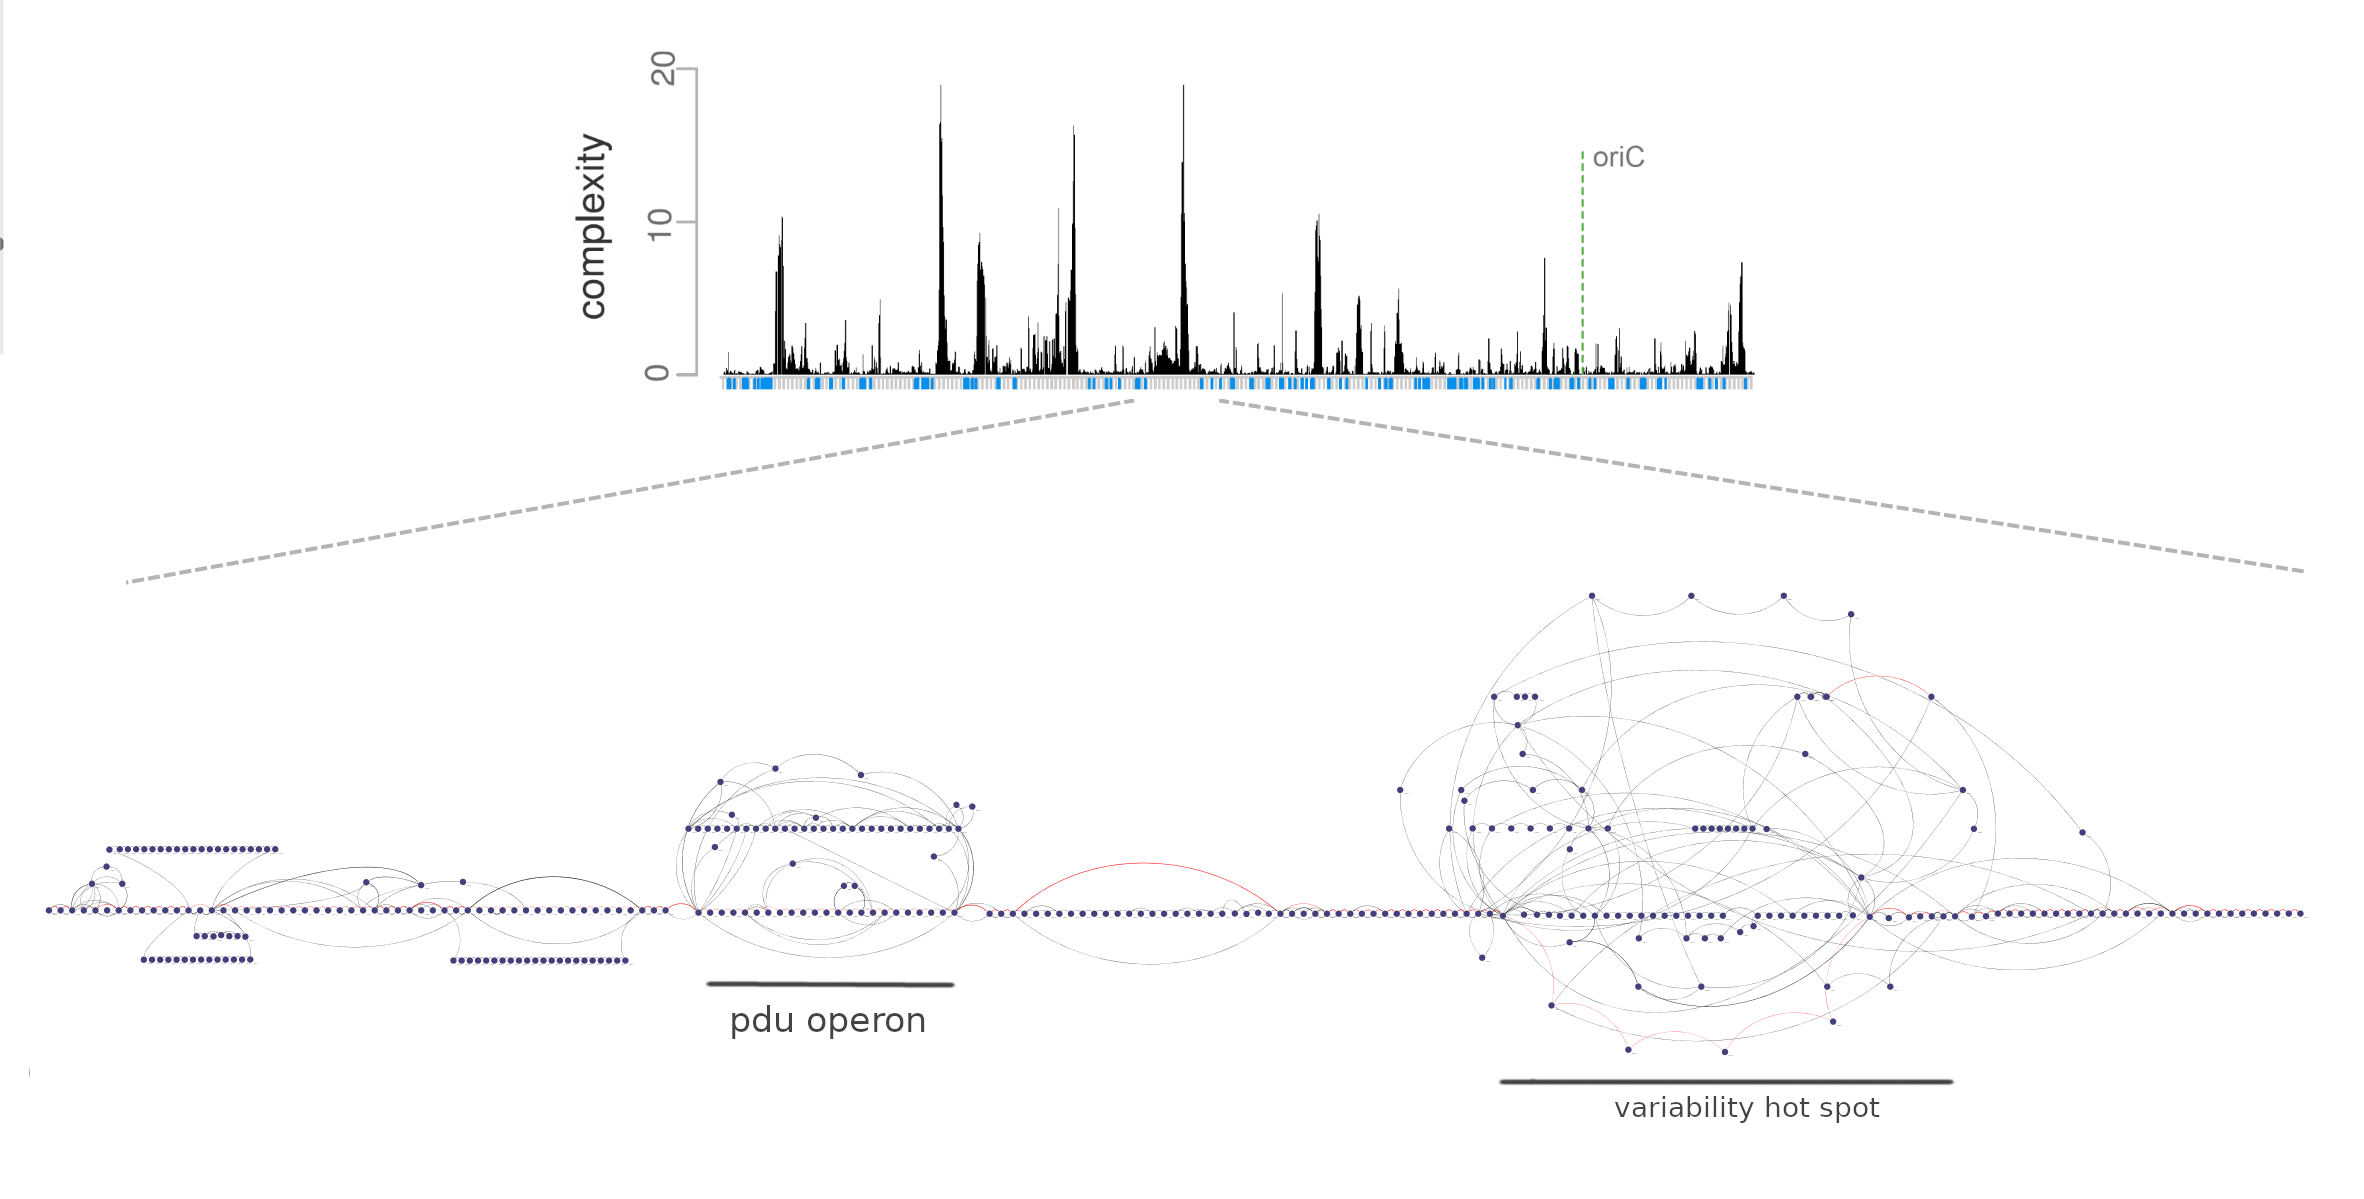
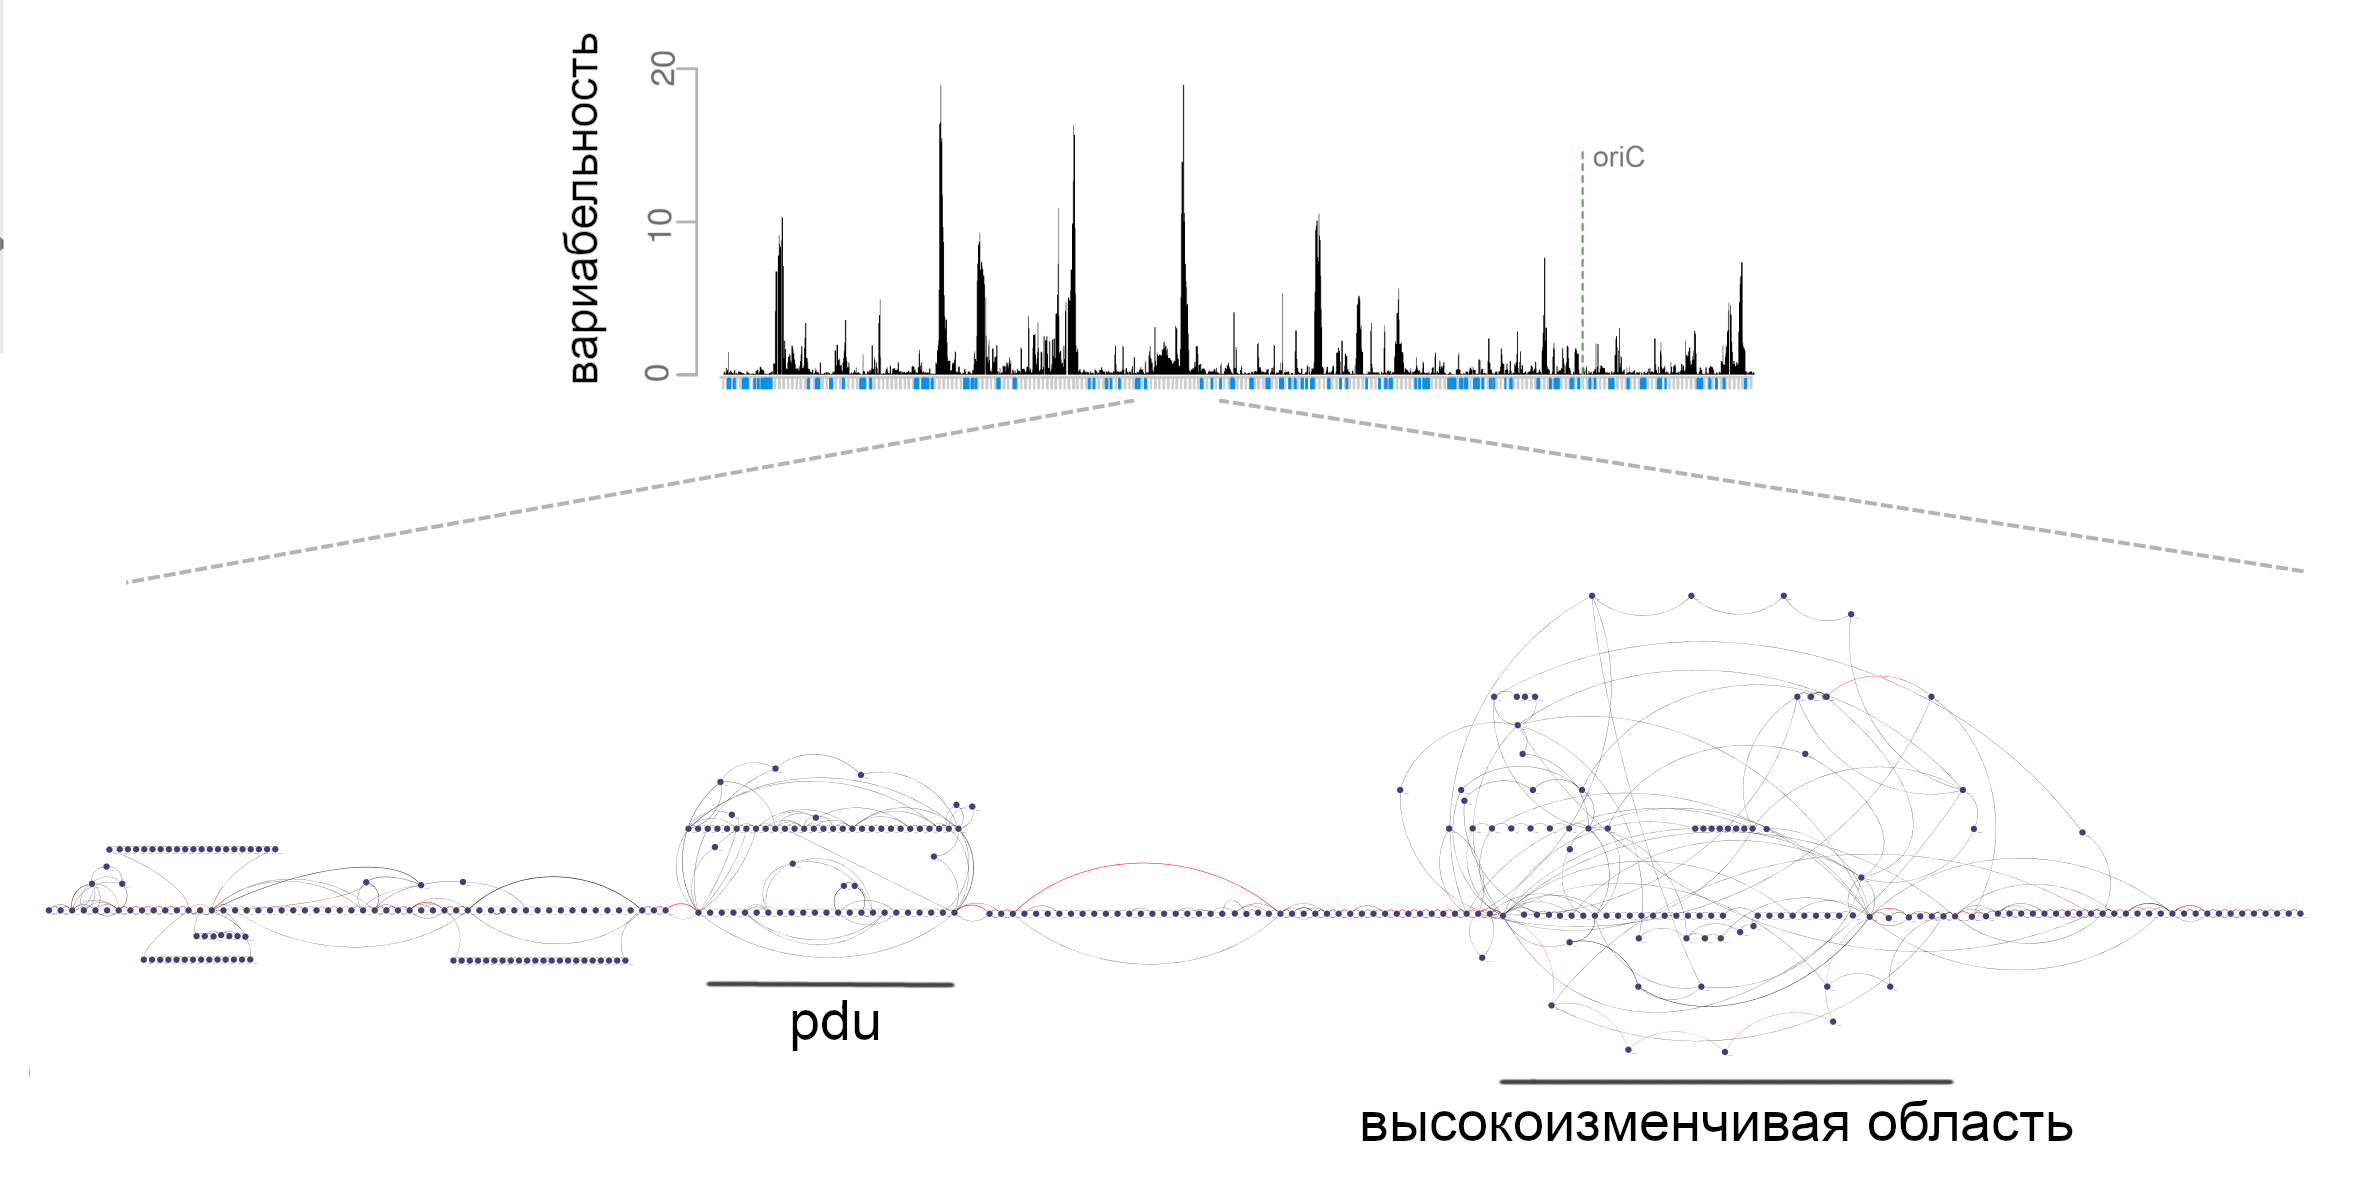
add

Changed region(s): [[0.5558, 0.8949, 0.8955, 0.9566], [0.2162, 0.0926, 0.2779, 0.3086], [0.3088, 0.8332, 0.4014, 0.8641]]

diff --git a/Dissertation/results_subgraphs.tex b/Dissertation/results_subgraphs.tex
@@ -56,7 +56,9 @@
 
 На рисунках~\ref{img:sub_hem} и ~\ref{img:sub_pdu} показаны графы, построенные в окрестностях оперонов захвата гемина (hemin uptake, hmu) и утилизации пропандиола (propanediol utilization operon, pdu), соответственно. В качестве референсного генома нами был взят геном \textit{Escherichia coli LF82}, в анализ были включены 327 финишированных геномов доступных в базе RefSeq. Для построения данных графов мы использовали следующие параметры: \textit{tails} = 1, \textit{max\_depth} = 30, \textit{minimal\_edge\_weight} = 5. 
 
-Рассмотрим для начала более простой случай оперона захвата гемина. Как видно из графа, представленного на рисунке~\ref{img:sub_hem}, данный оперон расположен в консервативном генном контексте. Дуговое ребро обходящее оперон сверху говорит о том, что в некотором наборе геномов данный оперон отсутствует и других вариантов генов у них в этом локусе не наблюдается. 
+Рассмотрим для начала более простой случай оперона захвата гемина. Данный оперона состоит из следующих генов: транспортный белок (Hemin transport protein HemS), АТФ-связывающий белок захвата гемина (Hemin import ATP-binding protein HmuV), гемин-связывающий периплазматический белок (hemin-binding periplasmic protein HmuT), кислороднезависимый копропорфириноген-III оксидазоподобный белок (oxygen-independent coproporphyrinogen-III oxidase-like protein) и два гипотетических белка (здесь и далее мы приводим аннотации последовательностей, полученные при помощи утилиты prokka \cite{seemann2014prokka}).
+
+Как видно из графа, представленного на рисунке~\ref{img:sub_hem}, данный оперон расположен в консервативном генном контексте: слева расположен регулятор транскрипции HTH-типа, справа --- гипотетический белок. Дуговое ребро обходящее оперон сверху говорит о том, что в некотором наборе геномов данный оперон отсутствует и других вариантов генов у них в этом локусе не наблюдается. 
 
 \begin{figure}[!ht] 
   \center
@@ -65,7 +67,7 @@
   \label{img:sub_hem} 
 \end{figure}
 
-В случае оперона утилизации пропандиола, аналогично, наблюдается консервативность контекста его рассположения у тех штаммов, в которых он представлен. Ребро обходящее оперон (дуга ниже оперона) говорит о том, что в ряде штаммов в данном контексте нет иных вариантов генов. Наблюдается некоторая вариабельность внутри оперона, соответствующая нескольким вариантам данного оперона \cite{rakitina2017genome}. Помимо pdu оперона, в том же контексте, у ряда штаммов наблюдается альтернативный набор генов (узлы и ребра, расположенные выше оперона), в который входят гены транспорта железа (FepC, FcuA, HmuU), гены мобильных элементов (retroviral integrase core domain, transposase DDE Tnp ISL3) и множество гипотетических генов с неизвестной функцией. Примечательна вариабельность этого альтернативного набора генов. Вероятно, данный участок генома часто служит местом рекомбинационных событий, приводящих к изменению набора генов, причем эти изменения не имеют строгого начала и конца (т.е. не сайт специфичны), но часто накладываются друг на друга. 
+В оперон утилизации пропандиола (propanediol utilization operon, pdu) входят гены, кодирующие: белок утилизации пропандиола PduU, малая субъединица пропандиол-дегидратазы, белок утилизации пропандиола PduB, белок с механизмом концентрации углекислого газа CcmK, субъединица альфа-фактора реактивации диолдегидратазы, белок утилизации пропандиола PduV, альдегид-алкоголь дегидрогеназа, C-диамид аденозил трансфераза ириновой кислоты Cob I, большая субъединица  пропандиол дегидратазы, фосфат-пропаноил трансфераза, альдегид-алкоголь дегидрогеназа. Как видно из рисунка~\ref{img:sub_pdu} наблюдается консервативность контекста расположения pdu оперона у тех штаммов, в которых он представлен: слева от него расположен ген, кодирующий белок CobU  (участвует в синтезе витамина B12), справа --- гипотетический белок. Ребро обходящее оперон (дуга ниже оперона) говорит о том, что в ряде штаммов в данном контексте нет иных вариантов генов. Наблюдается некоторая вариабельность внутри оперона, соответствующая нескольким вариантам данного оперона \cite{rakitina2017genome}. Помимо pdu оперона, в том же контексте, у ряда штаммов наблюдается альтернативный набор генов (узлы и ребра, расположенные выше оперона), в который входят гены транспорта железа (FepC, FcuA, HmuU), гены мобильных элементов (retroviral integrase core domain, transposase DDE Tnp ISL3) и множество гипотетических генов с неизвестной функцией. Примечательна вариабельность этого альтернативного набора генов. Вероятно, данный участок генома часто служит местом рекомбинационных событий, приводящих к изменению набора генов, причем эти изменения не имеют строгого начала и конца (т.е. не сайт специфичны), но часто накладываются друг на друга. 
 
 \begin{figure}[!ht] 
   \center
